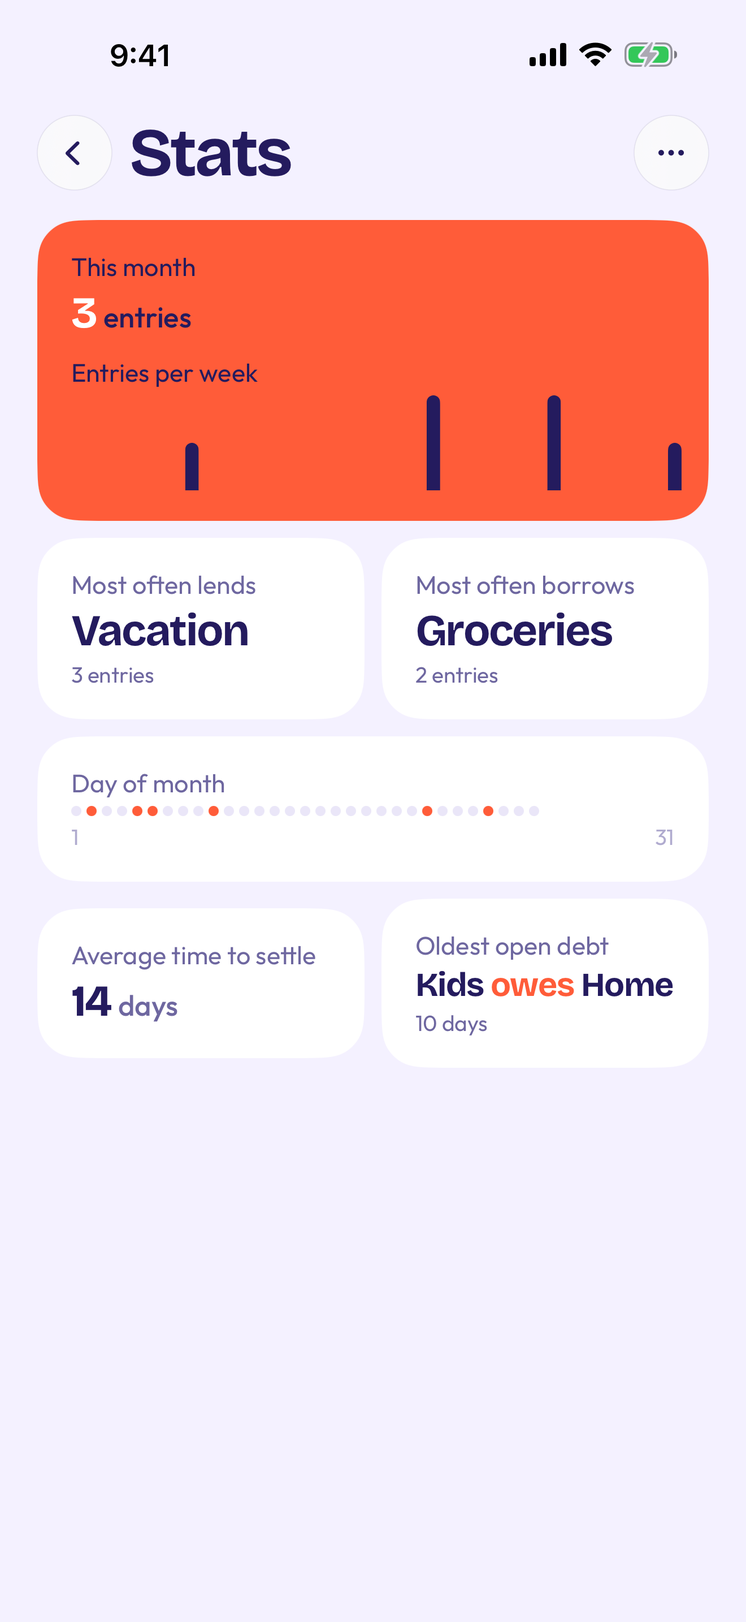
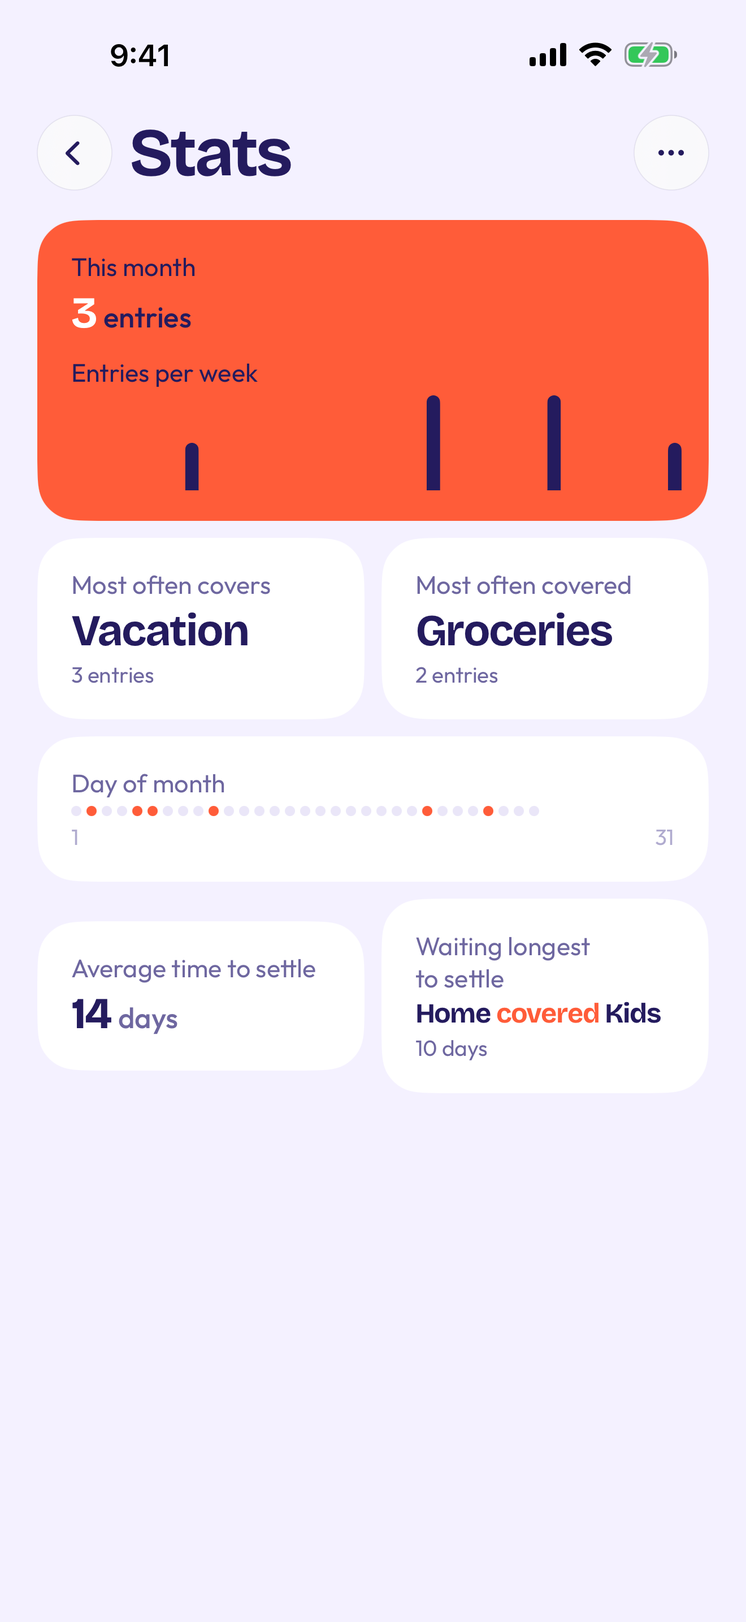
feat(press): the site and press kit show the 1.0.1 screens, cover and to settle [repocket-site-71p]
Every app screen the landing page and the press kit show now comes from the
1.0.1 app, so no image reads Owed, owes, Borrow, open debts or the old empty
state any more.

Press, App Store frames: set 2 en-US frames 01, 02, 04, 05 and 06, in set 2
order, captioned with their headlines verbatim. frame-01-know-what-you-owe.png
and frame-02-paid-with-the-wrong-card.png give way to
frame-01-whats-left-to-settle.png and frame-02-spend-from-any-pocket.png.
Frame 03 stays out until app bead repocket-g9vt re-captures its pair screen
(set 2's shows German shop notes). The euro note goes: set 2 has no euro set.

Press, app screens: set 2 en-US home, log, stats and all-square, and
debt-detail.png becomes pair-detail.png, from the app repo's How to capture
howto/everyday-pair.png (US notes). Captions: To settle, Vacation covered
Groceries, Log a cover, Stats, Everything is square.

Press, widgets: large from set 2; medium and small rendered by the app repo's
existing LocalizationScreenshotUITests.testMarketingWidgetScreenshots at
origin/main ac563b2c, en-US dollars (its large render is byte-identical to
set 2's).

Landing: en-US and en-GB home, all-square and widget-large from set 2
sources, 640x1392 (widget 560x587), cwebp -q 85. The en-US log is retaken from
the same testMarketingLogScreenshot flow at $45.50 on Wed, Sep 2 (a scratch
copy, nothing changed in the app repo), so it still matches beat 1. Alt texts
in both languages describe the new images.

Bead: repocket-site-71p
[…]

diff --git a/press.html b/press.html
@@ -60,7 +60,7 @@ footer{padding:30px 0;border-top:1px solid rgba(36,27,94,.1);font-size:14px;colo
 <div class="about-actions"><button type="button" class="copy-btn" id="copy-description"><svg aria-hidden="true" width="15" height="15" viewBox="0 0 24 24" fill="none" stroke="currentColor" stroke-width="2" stroke-linecap="round" stroke-linejoin="round"><rect x="9" y="9" width="11" height="11" rx="2"/><path d="M5 15V6a2 2 0 0 1 2-2h9"/></svg><span id="copy-label" aria-live="polite">Copy description</span></button><span class="muted">Fact sheet <a href="assets/press/fact-sheet.txt">TXT</a></span><a href="assets/press/copy.txt">Short and long copy · TXT</a></div></div>
 <div class="facts-card"><dl class="facts"><div><dt>Platform</dt><dd>iPhone, iOS 18 or later</dd></div><div><dt>Pricing</dt><dd>Free with 3 active pockets and the whole ledger. A one-time $4.99 unlock adds unlimited pockets, widgets, Siri and Shortcuts, and Stats. No subscription. US price; other stores set their own.</dd></div><div><dt>Developer</dt><dd>Michel Onwordi (Mugoworks), independent developer in Germany</dd></div><div><dt>Launched</dt><dd>10 October 2026</dd></div><div><dt>Details</dt><dd>Finance · Age 4+ · 19.7 MB · English</dd></div></dl><div class="facts-links"><a href="https://apps.apple.com/app/id6809761332">App Store ↗</a><a href="https://getrepocket.com">getrepocket.com ↗</a></div></div></section>
 <section id="screenshots" class="block"><div class="block-head center"><h2>Screenshots</h2><div class="tabs" role="group" aria-label="Screenshot set"><button type="button" data-tab="frames" aria-controls="panel-frames" aria-pressed="true">App Store frames</button><button type="button" data-tab="screens" aria-controls="panel-screens" aria-pressed="false">App screens</button><button type="button" data-tab="widgets" aria-controls="panel-widgets" aria-pressed="false">Widgets</button></div></div>
-<div class="panel" id="panel-frames" data-panel="frames"><div class="shots"><a class="shot" href="assets/press/screenshots/app-store-frames/frame-04-settle-up-on-payday.png" download><span class="shot-frame"><img src="assets/press/screenshots/app-store-frames/frame-04-settle-up-on-payday.png" alt="Settle up on payday, in one tap" width="1320" height="2868" loading="lazy" decoding="async"></span><span class="shot-name">Settle up on payday, in one tap</span><span class="meta">1320&nbsp;×&nbsp;2868 · PNG&nbsp;146&nbsp;KB</span></a><a class="shot" href="assets/press/screenshots/app-store-frames/frame-06-habit-of-settling-up.png" download><span class="shot-frame"><img src="assets/press/screenshots/app-store-frames/frame-06-habit-of-settling-up.png" alt="Build the habit of settling up" width="1320" height="2868" loading="lazy" decoding="async"></span><span class="shot-name">Build the habit of settling up</span><span class="meta">1320&nbsp;×&nbsp;2868 · PNG&nbsp;156&nbsp;KB</span></a><a class="shot" href="assets/press/screenshots/app-store-frames/frame-03-exactly-what-to-move-back.png" download><span class="shot-frame"><img src="assets/press/screenshots/app-store-frames/frame-03-exactly-what-to-move-back.png" alt="See exactly what to move back" width="1320" height="2868" loading="lazy" decoding="async"></span><span class="shot-name">See exactly what to move back</span><span class="meta">1320&nbsp;×&nbsp;2868 · PNG&nbsp;226&nbsp;KB</span></a><a class="shot" href="assets/press/screenshots/app-store-frames/frame-01-know-what-you-owe.png" download><span class="shot-frame"><img src="assets/press/screenshots/app-store-frames/frame-01-know-what-you-owe.png" alt="App Store frame over Repocket's main screen: $165.50 across 2 pairs of pockets" width="1320" height="2868" loading="lazy" decoding="async"></span><span class="shot-name">The main screen and its total</span><span class="meta">1320&nbsp;×&nbsp;2868 · PNG&nbsp;181&nbsp;KB</span></a><a class="shot" href="assets/press/screenshots/app-store-frames/frame-05-which-pocket-runs-dry.png" download><span class="shot-frame"><img src="assets/press/screenshots/app-store-frames/frame-05-which-pocket-runs-dry.png" alt="Learn which pocket keeps running dry" width="1320" height="2868" loading="lazy" decoding="async"></span><span class="shot-name">Learn which pocket keeps running dry</span><span class="meta">1320&nbsp;×&nbsp;2868 · PNG&nbsp;199&nbsp;KB</span></a><a class="shot" href="assets/press/screenshots/app-store-frames/frame-02-paid-with-the-wrong-card.png" download><span class="shot-frame"><img src="assets/press/screenshots/app-store-frames/frame-02-paid-with-the-wrong-card.png" alt="Paid with the wrong card? Remembered." width="1320" height="2868" loading="lazy" decoding="async"></span><span class="shot-name">Paid with the wrong card? Remembered.</span><span class="meta">1320&nbsp;×&nbsp;2868 · PNG&nbsp;218&nbsp;KB</span></a></div><p class="note">The six App Store frames, in US dollars. A euro set is in the ZIP too.</p></div><div class="panel" id="panel-screens" data-panel="screens" hidden><div class="shots"><a class="shot" href="assets/press/screenshots/app-screens/all-square.png" download><span class="shot-frame"><img src="assets/press/screenshots/app-screens/all-square.png" alt="Everything is square" width="1320" height="2868" loading="lazy" decoding="async"></span><span class="shot-name">Everything is square</span><span class="meta">1320&nbsp;×&nbsp;2868 · PNG&nbsp;165&nbsp;KB</span></a><a class="shot" href="assets/press/screenshots/app-screens/home.png" download><span class="shot-frame"><img src="assets/press/screenshots/app-screens/home.png" alt="Repocket's main screen: Vacation covered Groceries for $45.50 and Home covered Kids for $120.00, $165.50 in all" width="1320" height="2868" loading="lazy" decoding="async"></span><span class="shot-name">Main screen</span><span class="meta">1320&nbsp;×&nbsp;2868 · PNG&nbsp;202&nbsp;KB</span></a><a class="shot" href="assets/press/screenshots/app-screens/debt-detail.png" download><span class="shot-frame"><img src="assets/press/screenshots/app-screens/debt-detail.png" alt="One pair of pockets in detail: Vacation covered Groceries for $45.50 since Wed 2 Sep, with three entries and a Mark settled button" width="1320" height="2868" loading="lazy" decoding="async"></span><span class="shot-name">Pair detail</span><span class="meta">1320&nbsp;×&nbsp;2868 · PNG&nbsp;225&nbsp;KB</span></a><a class="shot" href="assets/press/screenshots/app-screens/log.png" download><span class="shot-frame"><img src="assets/press/screenshots/app-screens/log.png" alt="Repocket's Log sheet: $30.00 paid from Vacation that should have come from Groceries, dated Mon, Sep 7" width="1320" height="2868" loading="lazy" decoding="async"></span><span class="shot-name">Log sheet</span><span class="meta">1320&nbsp;×&nbsp;2868 · PNG&nbsp;227&nbsp;KB</span></a><a class="shot" href="assets/press/screenshots/app-screens/stats.png" download><span class="shot-frame"><img src="assets/press/screenshots/app-screens/stats.png" alt="Stats" width="1320" height="2868" loading="lazy" decoding="async"></span><span class="shot-name">Stats</span><span class="meta">1320&nbsp;×&nbsp;2868 · PNG&nbsp;184&nbsp;KB</span></a></div><p class="note">Original PNGs, without device frames.</p></div><div class="panel" id="panel-widgets" data-panel="widgets" hidden><div class="shots"><a class="shot" href="assets/press/screenshots/widgets/widget-large.png" download><span class="shot-frame"><span class="widget-box" style="max-width:calc(210px * 1014 / 1062 + 20px)"><img src="assets/press/screenshots/widgets/widget-large.png" alt="Large widget" width="1014" height="1062" loading="lazy" decoding="async"></span></span><span class="shot-name">Large widget</span><span class="meta">1014&nbsp;×&nbsp;1062 · PNG&nbsp;79&nbsp;KB</span></a><a class="shot" href="assets/press/screenshots/widgets/widget-medium.png" download><span class="shot-frame"><span class="widget-box" style="max-width:calc(210px * 1014 / 474 + 20px)"><img src="assets/press/screenshots/widgets/widget-medium.png" alt="Medium widget" width="1014" height="474" loading="lazy" decoding="async"></span></span><span class="shot-name">Medium widget</span><span class="meta">1014&nbsp;×&nbsp;474 · PNG&nbsp;55&nbsp;KB</span></a><a class="shot" href="assets/press/screenshots/widgets/widget-small.png" download><span class="shot-frame"><span class="widget-box" style="max-width:calc(210px * 474 / 474 + 20px)"><img src="assets/press/screenshots/widgets/widget-small.png" alt="Small widget" width="474" height="474" loading="lazy" decoding="async"></span></span><span class="shot-name">Small widget</span><span class="meta">474&nbsp;×&nbsp;474 · PNG&nbsp;23&nbsp;KB</span></a></div><p class="note">Home Screen widgets. Settle straight from the large and medium ones.</p></div></section>
+<div class="panel" id="panel-frames" data-panel="frames"><div class="shots"><a class="shot" href="assets/press/screenshots/app-store-frames/frame-01-whats-left-to-settle.png" download><span class="shot-frame"><img src="assets/press/screenshots/app-store-frames/frame-01-whats-left-to-settle.png" alt="App Store frame: Know what's left to settle, over Repocket's To settle screen, $165.50 to settle" width="1320" height="2868" loading="lazy" decoding="async"></span><span class="shot-name">Know what's left to settle.</span><span class="meta">1320&nbsp;×&nbsp;2868 · PNG&nbsp;177&nbsp;KB</span></a><a class="shot" href="assets/press/screenshots/app-store-frames/frame-02-spend-from-any-pocket.png" download><span class="shot-frame"><img src="assets/press/screenshots/app-store-frames/frame-02-spend-from-any-pocket.png" alt="App Store frame on coral: Spend from any pocket. Log it in a line, over the Log sheet on Cover, $30.00 paid from Vacation, covering for Groceries" width="1320" height="2868" loading="lazy" decoding="async"></span><span class="shot-name">Spend from any pocket. Log it in a line.</span><span class="meta">1320&nbsp;×&nbsp;2868 · PNG&nbsp;209&nbsp;KB</span></a><a class="shot" href="assets/press/screenshots/app-store-frames/frame-04-settle-up-on-payday.png" download><span class="shot-frame"><img src="assets/press/screenshots/app-store-frames/frame-04-settle-up-on-payday.png" alt="App Store frame: Settle up on payday, in one tap, over the large To settle widget, $165.50 to settle" width="1320" height="2868" loading="lazy" decoding="async"></span><span class="shot-name">Settle up on payday, in one tap.</span><span class="meta">1320&nbsp;×&nbsp;2868 · PNG&nbsp;146&nbsp;KB</span></a><a class="shot" href="assets/press/screenshots/app-store-frames/frame-05-which-pocket-runs-dry.png" download><span class="shot-frame"><img src="assets/press/screenshots/app-store-frames/frame-05-which-pocket-runs-dry.png" alt="App Store frame: Learn which pocket keeps running dry, over the Stats screen" width="1320" height="2868" loading="lazy" decoding="async"></span><span class="shot-name">Learn which pocket keeps running dry.</span><span class="meta">1320&nbsp;×&nbsp;2868 · PNG&nbsp;202&nbsp;KB</span></a><a class="shot" href="assets/press/screenshots/app-store-frames/frame-06-habit-of-settling-up.png" download><span class="shot-frame"><img src="assets/press/screenshots/app-store-frames/frame-06-habit-of-settling-up.png" alt="App Store frame: Build the habit of settling up, over the To settle screen, all square" width="1320" height="2868" loading="lazy" decoding="async"></span><span class="shot-name">Build the habit of settling up.</span><span class="meta">1320&nbsp;×&nbsp;2868 · PNG&nbsp;145&nbsp;KB</span></a></div><p class="note">The App Store frames, in US dollars.</p></div><div class="panel" id="panel-screens" data-panel="screens" hidden><div class="shots"><a class="shot" href="assets/press/screenshots/app-screens/home.png" download><span class="shot-frame"><img src="assets/press/screenshots/app-screens/home.png" alt="Repocket's To settle screen: $165.50, 2 to settle. Vacation covered Groceries, $45.50 since Wed 2 Sep, and Home covered Kids, $120.00 since Fri 28 Aug" width="1320" height="2868" loading="lazy" decoding="async"></span><span class="shot-name">To settle</span><span class="meta">1320&nbsp;×&nbsp;2868 · PNG&nbsp;200&nbsp;KB</span></a><a class="shot" href="assets/press/screenshots/app-screens/pair-detail.png" download><span class="shot-frame"><img src="assets/press/screenshots/app-screens/pair-detail.png" alt="The pair screen Vacation covered Groceries: $45.50 since Wed 2 Sep, with three entries, Farmers market and Weekend grocery run (Covered) and Moved back, and a Mark settled button" width="1320" height="2868" loading="lazy" decoding="async"></span><span class="shot-name">Vacation covered Groceries</span><span class="meta">1320&nbsp;×&nbsp;2868 · PNG&nbsp;222&nbsp;KB</span></a><a class="shot" href="assets/press/screenshots/app-screens/log.png" download><span class="shot-frame"><img src="assets/press/screenshots/app-screens/log.png" alt="Repocket's Log sheet on Cover: $30.00, Paid from Vacation, Covering for Groceries, dated Mon, Sep 7, with the number pad open" width="1320" height="2868" loading="lazy" decoding="async"></span><span class="shot-name">Log a cover</span><span class="meta">1320&nbsp;×&nbsp;2868 · PNG&nbsp;230&nbsp;KB</span></a><a class="shot" href="assets/press/screenshots/app-screens/stats.png" download><span class="shot-frame"><img src="assets/press/screenshots/app-screens/stats.png" alt="Repocket's Stats screen: 3 entries this month, Most often covers Vacation, Most often covered Groceries, Day of month, Average time to settle 14 days, and Waiting longest to settle, Home covered Kids, 10 days" width="1320" height="2868" loading="lazy" decoding="async"></span><span class="shot-name">Stats</span><span class="meta">1320&nbsp;×&nbsp;2868 · PNG&nbsp;187&nbsp;KB</span></a><a class="shot" href="assets/press/screenshots/app-screens/all-square.png" download><span class="shot-frame"><img src="assets/press/screenshots/app-screens/all-square.png" alt="Repocket's To settle screen, all square: Everything is square. Spend from any pocket. Tell Repocket and it'll remember." width="1320" height="2868" loading="lazy" decoding="async"></span><span class="shot-name">Everything is square.</span><span class="meta">1320&nbsp;×&nbsp;2868 · PNG&nbsp;155&nbsp;KB</span></a></div><p class="note">Original PNGs, without device frames.</p></div><div class="panel" id="panel-widgets" data-panel="widgets" hidden><div class="shots"><a class="shot" href="assets/press/screenshots/widgets/widget-large.png" download><span class="shot-frame"><span class="widget-box" style="max-width:calc(210px * 1014 / 1062 + 20px)"><img src="assets/press/screenshots/widgets/widget-large.png" alt="Repocket's large widget: To settle, $165.50 to settle, Kids to Home $120.00 for 10 days and Groceries to Vacation $45.50 for 5 days, each with a Settled checkmark" width="1014" height="1062" loading="lazy" decoding="async"></span></span><span class="shot-name">Large widget</span><span class="meta">1014&nbsp;×&nbsp;1062 · PNG&nbsp;79&nbsp;KB</span></a><a class="shot" href="assets/press/screenshots/widgets/widget-medium.png" download><span class="shot-frame"><span class="widget-box" style="max-width:calc(210px * 1014 / 474 + 20px)"><img src="assets/press/screenshots/widgets/widget-medium.png" alt="Repocket's medium widget: To settle, $165.50, Kids to Home $120.00 for 10 days and Groceries to Vacation $45.50 for 5 days, each with a Settled checkmark" width="1014" height="474" loading="lazy" decoding="async"></span></span><span class="shot-name">Medium widget</span><span class="meta">1014&nbsp;×&nbsp;474 · PNG&nbsp;54&nbsp;KB</span></a><a class="shot" href="assets/press/screenshots/widgets/widget-small.png" download><span class="shot-frame"><span class="widget-box" style="max-width:calc(210px * 474 / 474 + 20px)"><img src="assets/press/screenshots/widgets/widget-small.png" alt="Repocket's small widget: $165.50 to settle" width="474" height="474" loading="lazy" decoding="async"></span></span><span class="shot-name">Small widget</span><span class="meta">474&nbsp;×&nbsp;474 · PNG&nbsp;23&nbsp;KB</span></a></div><p class="note">Home Screen widgets. Settle straight from the large and medium ones.</p></div></section>
 <section id="videos" class="block"><h2>Videos</h2><div class="videos">
 <div class="vcard"><figure class="vframe"><video src="assets/press/video/repocket-a-payday-wheel-header-en-US-iphone.mp4" poster="assets/press/video/repocket-a-payday-wheel-header-en-US-iphone-poster.webp" width="804" height="516" muted loop playsinline></video><figcaption class="sr-only">Square by payday animation</figcaption></figure><span class="card-name">Square by payday</span><span class="meta">3840&nbsp;×&nbsp;1646 · 21:9 · 12.3&nbsp;s · no sound · <a href="https://github.com/ugochukwu/repocket-site/releases/download/press-kit-2026-10-12/repocket-a-payday-wheel-header-en-US-3840x1646.mp4"><span class="sr-only">Download Square by payday, </span>MP4&nbsp;4.5&nbsp;MB</a></span></div>
 <div class="vcard"><figure class="vframe"><video src="assets/press/video/repocket-b-wrong-pocket-v3-search-en-US-iphone.mp4" poster="assets/press/video/repocket-b-wrong-pocket-v3-search-en-US-iphone-poster.webp" width="738" height="492" muted loop playsinline></video><figcaption class="sr-only">Repocket logging a payment between two pockets</figcaption></figure><span class="card-name">Any card, remembered</span><span class="meta">3840&nbsp;×&nbsp;2560 · 3:2 · 10.0&nbsp;s · no sound · <a href="https://github.com/ugochukwu/repocket-site/releases/download/press-kit-2026-10-12/repocket-b-wrong-pocket-v3-search-en-US-3840x2560.mp4"><span class="sr-only">Download Any card, remembered, </span>MP4&nbsp;5.1&nbsp;MB</a></span></div>
@@ -78,7 +78,7 @@ footer{padding:30px 0;border-top:1px solid rgba(36,27,94,.1);font-size:14px;colo
 <div class="bcard"><div class="typecard"><span class="type-display">Aa Bricolage</span><span class="type-text">Aa Outfit</span></div><span class="card-name">Type</span><span class="meta">Bricolage Grotesque for headlines, Outfit for text. Both free on Google Fonts.</span></div>
 </div></section>
 <section id="contact" class="contact"><div class="contact-col"><h2>Press contact</h2><span class="body-ink">Michel Onwordi (Mugoworks), independent developer in Germany.</span><span><a class="email" href="mailto:hello@getrepocket.com">hello@getrepocket.com</a><span class="muted"> · Review codes for the unlock on request.</span></span></div>
-<div class="contact-col wide"><h2>Using these files</h2><span class="body-ink">Use them for editorial coverage of Repocket. Keep the icon and illustrations as they are, and credit Repocket. For anything else, or more material, get in touch.</span><span class="small">Updated 12 October 2026. The ZIP has labelled folders for facts, screenshots, videos, illustrations and brand, plus a read-me. <a href="assets/press/README.txt">Read me · TXT</a></span></div></section>
+<div class="contact-col wide"><h2>Using these files</h2><span class="body-ink">Use them for editorial coverage of Repocket. Keep the icon and illustrations as they are, and credit Repocket. For anything else, or more material, get in touch.</span><span class="small">Updated 14 October 2026. The ZIP has labelled folders for facts, screenshots, videos, illustrations and brand, plus a read-me. <a href="assets/press/README.txt">Read me · TXT</a></span></div></section>
 <p class="signoff"><svg aria-hidden="true" width="22" height="14" viewBox="0 0 22 14"><rect x="0" y="0" width="22" height="4.5" rx="2.25" fill="#1FA588"/><rect x="0" y="9.5" width="22" height="4.5" rx="2.25" fill="#1FA588"/></svg><span>Everything is square.</span></p>
 </main>
 <footer><div class="wrap"><a href="index.html">Repocket</a><a href="how-to/">How to</a><a href="privacy.html">Privacy</a><a href="support.html">Support</a><a href="press.html">Press kit</a><a href="impressum.html">Impressum</a><span>© 2026 mugoworks</span><div class="mugo-credit-row"><a class="mugo-credit" href="https://mugoworks.com"><img src="assets/mark-on-light.svg" width="20" height="20" alt="mugo works mark"><span>A MUGO WORKS PRODUCT</span></a></div></div></footer>

diff --git a/index.html b/index.html
@@ -100,7 +100,7 @@ footer{padding:40px 0 60px;border-top:1px solid rgba(36,27,94,.1);font-size:14px
  <div class="ph up d3" style="display:flex;justify-content:center">
   <div class="phone" id="hero-phone" data-scr="home">
    <div class="sb" aria-hidden="true"><i></i></div>
-   <img class="scr s-home" data-l="en" src="assets/screens/en-US/home.webp" width="640" height="1392" decoding="async" alt="Repocket's main screen: $165.50 across 2 pairs of pockets. Vacation covered Groceries for $45.50 since Wed 2 Sep, and Home covered Kids for $120.00 since Fri 28 Aug."><img class="scr s-home" data-l="de" src="assets/screens/en-GB/home.webp" width="640" height="1392" decoding="async" alt="Der Bildschirm Geschuldet in Repocket: 165,50 € in 2 offenen Schulden. Groceries schuldet Vacation 45,50 € seit Mi. 2. Sep., und Kids schuldet Home 120,00 € seit Fr. 28. Aug.">
+   <img class="scr s-home" data-l="en" src="assets/screens/en-US/home.webp" width="640" height="1392" decoding="async" alt="Repocket's To settle screen: $165.50, 2 to settle. Vacation covered Groceries for $45.50 since Wed 2 Sep, and Home covered Kids for $120.00 since Fri 28 Aug."><img class="scr s-home" data-l="de" src="assets/screens/en-GB/home.webp" width="640" height="1392" decoding="async" alt="Der Startbildschirm von Repocket, To settle: 165,50 £ für 2 Taschenpaare. Travel hat seit Mi. 2. Sep. 45,50 £ für Groceries ausgelegt, und Home seit Fr. 28. Aug. 120,00 £ für Kids.">
   </div>
  </div>
 </header>
@@ -116,10 +116,10 @@ footer{padding:40px 0 60px;border-top:1px solid rgba(36,27,94,.1);font-size:14px
   </div>
   <div class="sticky"><div class="phone" id="story-phone" data-scr="log">
    <div class="sb" aria-hidden="true"><i></i></div>
-   <img class="scr s-log" data-l="en" src="assets/screens/en-US/log.webp" width="640" height="1392" decoding="async" loading="lazy" alt="Repocket's Log sheet: $45.50 paid from Vacation that should have come from Groceries, dated Wed, Sep 2, with the number pad open."><img class="scr s-log" data-l="de" src="assets/screens/en-GB/log.webp" width="640" height="1392" decoding="async" loading="lazy" alt="Das Eintragen-Blatt in Repocket im Modus Leihe: 45,50 €, bezahlt von Vacation, hätte kommen sollen von Groceries, am Mi. 2. Sep., mit offenem Ziffernblock.">
-   <img class="scr s-home" data-l="en" src="assets/screens/en-US/home.webp" width="640" height="1392" decoding="async" loading="lazy" alt="Repocket's main screen: $165.50 across 2 pairs of pockets. Vacation covered Groceries for $45.50 since Wed 2 Sep, and Home covered Kids for $120.00 since Fri 28 Aug."><img class="scr s-home" data-l="de" src="assets/screens/en-GB/home.webp" width="640" height="1392" decoding="async" loading="lazy" alt="Der Bildschirm Geschuldet in Repocket: 165,50 € in 2 offenen Schulden. Groceries schuldet Vacation 45,50 € seit Mi. 2. Sep., und Kids schuldet Home 120,00 € seit Fr. 28. Aug.">
-   <div class="scr s-widget"><div class="wgt"><img data-l="en" src="assets/screens/en-US/widget-large.webp" width="560" height="587" decoding="async" loading="lazy" alt="Repocket's large widget: $165.50 to return, Kids to Home $120.00 for 10 days and Groceries to Vacation $45.50 for 5 days, each with a Settled checkmark button."><img data-l="de" src="assets/screens/en-GB/widget-large.webp" width="560" height="587" decoding="async" loading="lazy" alt="Das Repocket-Widget Geschuldet: 165,50 € zurückzulegen, Kids an Home 120,00 € seit 10 Tagen und Groceries an Vacation 45,50 € seit 5 Tagen, jeweils mit einem Häkchen zum Ausgleichen."></div></div>
-   <img class="scr s-square" data-l="en" src="assets/screens/en-US/all-square.webp" width="640" height="1392" decoding="async" loading="lazy" alt="Repocket's main screen: Everything is square."><img class="scr s-square" data-l="de" src="assets/screens/en-GB/all-square.webp" width="640" height="1392" decoding="async" loading="lazy" alt="Der Bildschirm Geschuldet in Repocket: Alles ausgeglichen.">
+   <img class="scr s-log" data-l="en" src="assets/screens/en-US/log.webp" width="640" height="1392" decoding="async" loading="lazy" alt="Repocket's Log sheet on Cover: $45.50, paid from Vacation, covering for Groceries, dated Wed, Sep 2, with the number pad open."><img class="scr s-log" data-l="de" src="assets/screens/en-GB/log.webp" width="640" height="1392" decoding="async" loading="lazy" alt="Das Eintragen-Blatt in Repocket im Modus Cover: 30,00 £, bezahlt von Travel, ausgelegt für Groceries, am Mo. 7. Sep., mit offenem Ziffernblock.">
+   <img class="scr s-home" data-l="en" src="assets/screens/en-US/home.webp" width="640" height="1392" decoding="async" loading="lazy" alt="Repocket's To settle screen: $165.50, 2 to settle. Vacation covered Groceries for $45.50 since Wed 2 Sep, and Home covered Kids for $120.00 since Fri 28 Aug."><img class="scr s-home" data-l="de" src="assets/screens/en-GB/home.webp" width="640" height="1392" decoding="async" loading="lazy" alt="Der Startbildschirm von Repocket, To settle: 165,50 £ für 2 Taschenpaare. Travel hat seit Mi. 2. Sep. 45,50 £ für Groceries ausgelegt, und Home seit Fr. 28. Aug. 120,00 £ für Kids.">
+   <div class="scr s-widget"><div class="wgt"><img data-l="en" src="assets/screens/en-US/widget-large.webp" width="560" height="587" decoding="async" loading="lazy" alt="Repocket's large widget: $165.50 to settle, Kids to Home $120.00 for 10 days and Groceries to Vacation $45.50 for 5 days, each with a Settled checkmark button."><img data-l="de" src="assets/screens/en-GB/widget-large.webp" width="560" height="587" decoding="async" loading="lazy" alt="Das große Repocket-Widget To settle: 165,50 £ auszugleichen, Kids an Home 120,00 £ seit 10 Tagen und Groceries an Travel 45,50 £ seit 5 Tagen, jeweils mit einem Häkchen zum Ausgleichen."></div></div>
+   <img class="scr s-square" data-l="en" src="assets/screens/en-US/all-square.webp" width="640" height="1392" decoding="async" loading="lazy" alt="Repocket's To settle screen, all square: Everything is square. Spend from any pocket. Tell Repocket and it'll remember."><img class="scr s-square" data-l="de" src="assets/screens/en-GB/all-square.webp" width="640" height="1392" decoding="async" loading="lazy" alt="Der Startbildschirm von Repocket, To settle: alles ausgeglichen, Everything is square.">
   </div></div>
  </div>
 </div></section>

diff --git a/docs/adapters/stack.md b/docs/adapters/stack.md
@@ -1,7 +1,7 @@
 ---
 title: Stack adapter
 summary: Every command an agent runs against Repocket-site's code — build, test, lint, the CI-mirror quality gate, running the site, and the UI render check.
-updated: 2026-10-13
+updated: 2026-10-14
 status: living
 ---
 
@@ -34,11 +34,13 @@ URL until a custom domain is added.
 - `assets/mark.svg` — the app mark used for favicon, nav, footer.
 - `assets/og.png`: the 1200×630 link preview that every page's `og:image` and `twitter:image`
   meta tags point at, rendered from `docs/og/og.html` (see **Generated artifacts**).
-- `assets/screens/<locale>/` holds the landing page's phone screens: real app captures from the
-  app repo's App Store screenshot pipeline (`home`, `log`, `widget-large`, `all-square`), resized
-  to about 2x the drawn phone's rendered width and saved as WebP. English shows `en-US` (US
-  dollars, the same captures as the press kit's app screens and widget); German shows `en-GB`
-  (euros) until German captures exist.
+- `assets/screens/<locale>/` holds the landing page's phone screens: real 1.0.1 captures from the
+  app repo's App Store screenshot pipeline, `docs/marketing/screenshots/appstore/set-2/<locale>/sources/`
+  (`home`, `log`, `widget-large`, `all-square`), resized to about 2x the drawn phone's rendered
+  width (640x1392, the widget 560x587) and saved with `cwebp -q 85`. English shows `en-US` (US
+  dollars, the same captures as the press kit's app screens and widget, except `log`, retaken
+  from the same `testMarketingLogScreenshot` flow at $45.50 on Wed, Sep 2 so it matches beat 1);
+  German shows `en-GB` (British pounds, the travel pocket named Travel) until German captures exist.
 - `assets/screens/how-to/` holds the How to guides' phone screens in the same format: an en-US
   1320x2868 capture resized to 640x1392 and saved with `cwebp -q 85`. Each file is a fixed
   **screen slot** the page points at, so replacing a screen is dropping the converted capture in
@@ -76,7 +78,8 @@ URL until a custom domain is added.
   new capture with a different layout needs its row and clip measured again and checked at those
   widths.
 - `assets/press/` holds the press kit files that `press.html` shows and links: the en-US App
-  Store frames, app screens and widgets (PNG, copied unchanged from the app repo), the four
+  Store frames, app screens and widgets (PNG, copied unchanged from the app repo's 1.0.1 set 2
+  and How to captures, the widgets from its `testMarketingWidgetScreenshots`), the four
   illustrations at 21:9, 16:9 and 3:2 (plus 1200px WebP previews for the page), the app icon (SVG,
   a 1024 PNG and the three layer SVGs), the two small `-iphone.mp4` video previews with WebP
   posters, and `README.txt`, `fact-sheet.txt` and `copy.txt`. The full-resolution MP4s and the
